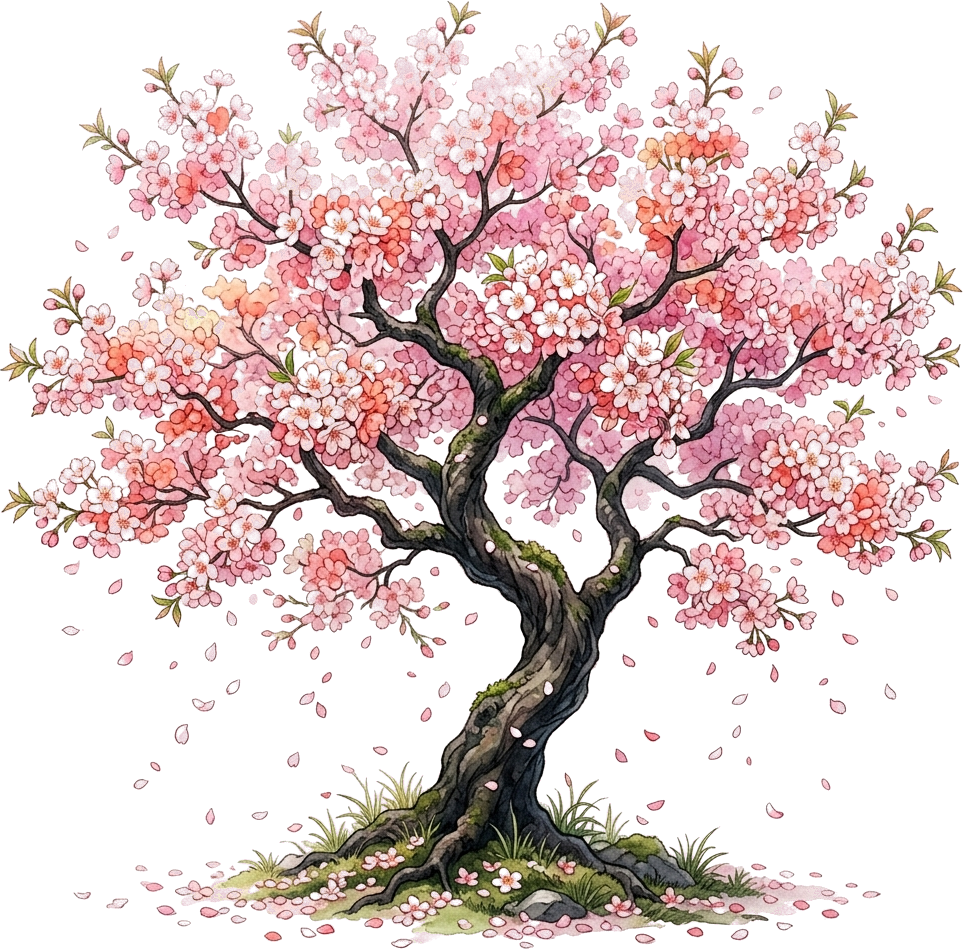
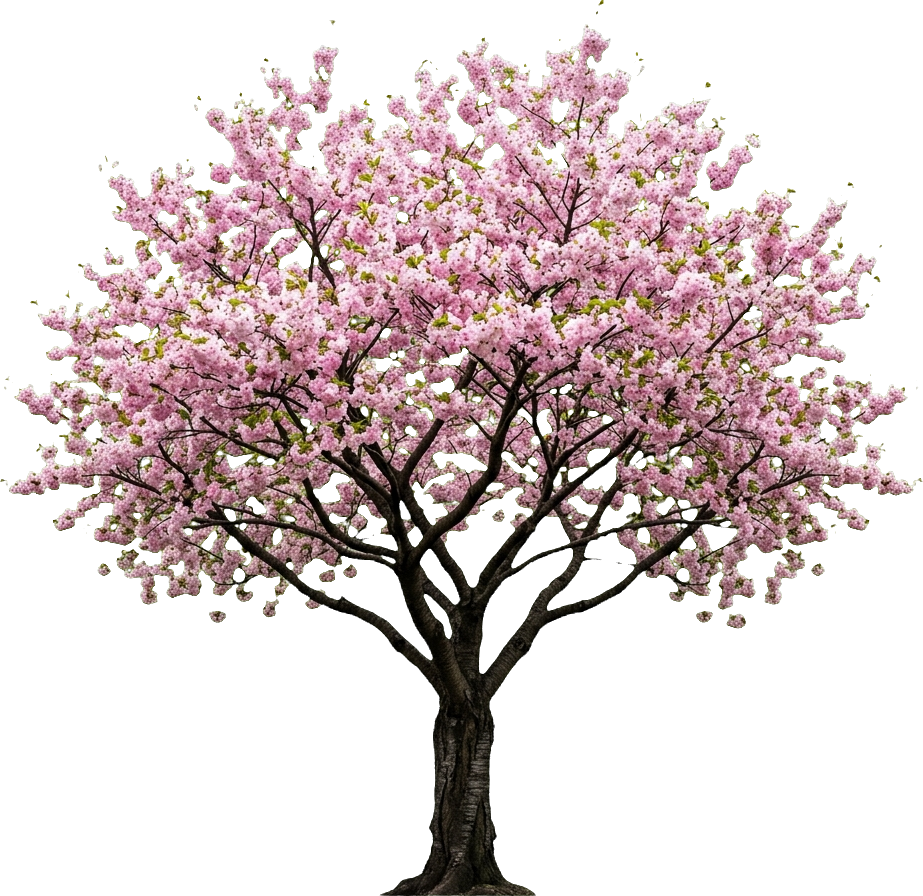
Generate new cherry blossom tree on green screen and key cleanly without AI artifacts, frame Grand Torii Arch in front of camera at Z=16, make 3 intro sentences 2-line large typography all visible from start

diff --git a/index.html b/index.html
@@ -436,7 +436,7 @@
 
         const camera = new THREE.PerspectiveCamera(54, window.innerWidth / window.innerHeight, 0.1, 1000);
         window.camera = camera;
-        camera.position.set(0, 1.6, 12);
+        camera.position.set(0, 1.6, 22.0);
 
         const renderer = new THREE.WebGLRenderer({ antialias: true, alpha: false });
         renderer.setSize(window.innerWidth, window.innerHeight);
@@ -1050,37 +1050,37 @@
         // =========================================================================
         const coupleMeshes = [];
 
-        // --- ENTRANCE ARCHWAY (Z = 28.0, Camera flies through it first thing) ---
-        const entranceTorii = createBillboard('assets/torii_arch_clean.png', 26.0, 26.0);
-        entranceTorii.position.set(0.0, 11.5, 28.0);
+        // --- ENTRANCE ARCHWAY (Z = 16.0, Right in front of camera at Z=22.0) ---
+        const entranceTorii = createBillboard('assets/torii_arch_clean.png', 22.0, 22.0);
+        entranceTorii.position.set(0.0, 9.5, 16.0);
         if (entranceTorii.material) entranceTorii.material.depthWrite = false;
         multiplaneGroup.add(entranceTorii);
 
-        // --- 3 INTRO FULL SENTENCE PLANES (Two-Line, Big, Static Positions) ---
+        // --- 3 INTRO FULL SENTENCE PLANES (Large Two-Line Typography, All Visible From Start) ---
         function createFullSentenceTexture(line1, line2) {
             const canvas = document.createElement('canvas');
             canvas.width = 2048;
-            canvas.height = line2 ? 640 : 400;
+            canvas.height = line2 ? 760 : 480;
             const ctx = canvas.getContext('2d');
 
             ctx.clearRect(0, 0, canvas.width, canvas.height);
 
-            function drawLine(text, y) {
-                ctx.font = '900 110px "Montserrat", "Zen Maru Gothic", sans-serif';
-                ctx.letterSpacing = '6px';
+            function drawLine(text, y, fontSize) {
+                ctx.font = `900 ${fontSize || 125}px "Montserrat", "Zen Maru Gothic", sans-serif`;
+                ctx.letterSpacing = '7px';
                 ctx.textAlign = 'center';
                 ctx.textBaseline = 'middle';
 
-                ctx.shadowColor = 'rgba(0, 0, 0, 0.55)';
-                ctx.shadowBlur = 28;
+                ctx.shadowColor = 'rgba(0, 0, 0, 0.65)';
+                ctx.shadowBlur = 32;
                 ctx.shadowOffsetX = 0;
                 ctx.shadowOffsetY = 10;
-                ctx.lineWidth = 22;
+                ctx.lineWidth = 26;
                 ctx.strokeStyle = '#ffffff';
                 ctx.strokeText(text, 1024, y);
 
                 ctx.shadowBlur = 0;
-                const grad = ctx.createLinearGradient(0, y - 70, 0, y + 70);
+                const grad = ctx.createLinearGradient(0, y - 80, 0, y + 80);
                 grad.addColorStop(0, '#ffffff');
                 grad.addColorStop(0.35, '#ff66b2');
                 grad.addColorStop(1, '#ff0066');
@@ -1089,10 +1089,10 @@
             }
 
             if (line2) {
-                drawLine(line1, 220);
-                drawLine(line2, 420);
+                drawLine(line1, 240, 120);
+                drawLine(line2, 510, 130);
             } else {
-                drawLine(line1, 200);
+                drawLine(line1, 240, 155);
             }
 
             const texture = new THREE.CanvasTexture(canvas);
@@ -1101,9 +1101,9 @@
         }
 
         const INTRO_SENTENCES_DEF = [
-            { line1: "Thank You For", line2: "Choosing Me",     z: 18.0, height: 4.2 },
-            { line1: "I Love You",    line2: null,               z:  4.0, height: 4.8 },
-            { line1: "You Are My",   line2: "Whole World Now",  z: -12.0, height: 4.2 }
+            { line1: "THANK YOU FOR", line2: "CHOOSING ME",     z:   9.0, height: 4.8 },
+            { line1: "I LOVE YOU",    line2: null,              z:  -2.0, height: 5.2 },
+            { line1: "YOU ARE MY",   line2: "WHOLE WORLD NOW", z: -14.0, height: 4.8 }
         ];
 
         const introSentences = INTRO_SENTENCES_DEF.map(item => {
@@ -1118,7 +1118,7 @@
             });
             const mesh = new THREE.Mesh(new THREE.PlaneGeometry(width, item.height), mat);
             // All sentences are visible and placed at fixed 3D world positions from the start
-            mesh.position.set(0.0, 2.6, item.z);
+            mesh.position.set(0.0, 2.7, item.z);
             mesh.visible = true;
             scene.add(mesh);
             return { mesh, mat, z: item.z };
@@ -1302,7 +1302,7 @@
 
         // Cherry trees placed 4.7 units BEHIND couple at Z = -134.5 (No overlap or Z-fighting)
         [-8.5, 8.5].forEach(xPos => {
-            const cherryTree = createBillboard('assets/tree_magenta.png?v=106', 13.5, 14.0);
+            const cherryTree = createBillboard('assets/tree_magenta.png?v=110', 13.5, 14.0);
             cherryTree.position.set(xPos, 5.66, -134.5);
             multiplaneGroup.add(cherryTree);
         });
@@ -1420,12 +1420,12 @@
         coupleMeshes.push(c6);
 
         // Whitish-pink trees standing UPRIGHT (rotation.z = 0) grounded at LYRICS text position (Z = -178.5, NO floating mid-air trees!)
-        const archTreeLeft = createBillboard('assets/tree_bonsai.png?v=106', 13.5, 14.0);
+        const archTreeLeft = createBillboard('assets/tree_bonsai.png?v=110', 13.5, 14.0);
         archTreeLeft.position.set(-8.5, -1.34 + 7.0, -178.5);
         archTreeLeft.rotation.z = 0; // Standing upright, no leaning!
         if (archTreeLeft.material) archTreeLeft.material.depthWrite = false;
 
-        const archTreeRight = createBillboard('assets/tree_bonsai.png?v=106', 13.5, 14.0);
+        const archTreeRight = createBillboard('assets/tree_bonsai.png?v=110', 13.5, 14.0);
         archTreeRight.position.set(8.5, -1.34 + 7.0, -178.5);
         archTreeRight.rotation.z = 0; // Standing upright, no leaning!
         if (archTreeRight.material) archTreeRight.material.depthWrite = false;
@@ -2223,27 +2223,40 @@
                 sun1.visible = sun1Opacity > 0.01;
             }
 
-            // 3 Intro Sentence Planes: always visible from afar, fade as camera passes through
-            // Only hide them once the song lyrics begin (t >= 14.5)
+            // Entrance Torii Arch fade as camera passes through at Z = 16.0
+            if (entranceTorii && entranceTorii.material) {
+                const archDist = camera.position.z - 16.0;
+                if (archDist < -3.0) {
+                    entranceTorii.visible = false;
+                } else if (archDist <= 1.8) {
+                    entranceTorii.visible = true;
+                    entranceTorii.material.opacity = Math.max(0.0, (archDist + 3.0) / 4.8);
+                } else {
+                    entranceTorii.visible = true;
+                    entranceTorii.material.opacity = 1.0;
+                }
+            }
+
+            // 3 Intro Sentence Planes: ALWAYS 100% visible from afar right from the start!
+            // Only fade as camera passes straight through each sentence plane
             introSentences.forEach(item => {
-                if (curAudioTime >= 14.5) {
+                if (curAudioTime >= 15.0) {
                     item.mesh.visible = false;
                     return;
                 }
-                const dist = camera.position.z - item.z; // positive = camera is ahead of (behind) plane
-                if (dist < -4.0) {
+                const dist = camera.position.z - item.z; // camera.z - sentence.z
+                if (dist < -2.5) {
                     // Camera already passed through — hide
                     item.mesh.visible = false;
-                } else {
+                } else if (dist <= 1.8) {
+                    // Camera passing straight through — smooth dissolve
                     item.mesh.visible = true;
-                    if (dist >= 1.5) {
-                        // Camera still approaching — fully visible
-                        item.mat.opacity = 1.0;
-                    } else {
-                        // Camera passing through — smooth fade out
-                        const fade = Math.max(0.0, (dist + 4.0) / 5.5);
-                        item.mat.opacity = fade * fade;
-                    }
+                    const fade = Math.max(0.0, (dist - (-2.5)) / 4.3);
+                    item.mat.opacity = fade * fade;
+                } else {
+                    // In front of camera — ALWAYS 100% VISIBLE FROM THE START!
+                    item.mesh.visible = true;
+                    item.mat.opacity = 1.0;
                 }
             });
 
@@ -2318,15 +2331,20 @@
                 }
             }
 
-            const speedZ = 3.4;
-            const continuousTravelZ = 12.0 - ((curAudioTime - 1.0) * speedZ);
+            let continuousTravelZ;
+            if (curAudioTime <= 15.4) {
+                // Intro fly-through: camera glides from Z = 22.0 (t=0) down to Z = -37.0 (t=15.4)
+                continuousTravelZ = 22.0 - (curAudioTime * (59.0 / 15.4));
+            } else {
+                continuousTravelZ = -37.0 - ((curAudioTime - 15.4) * 3.4);
+            }
 
-            let targetCamPos = new THREE.Vector3(0, 1.4, continuousTravelZ);
+            let targetCamPos = new THREE.Vector3(0, 1.6, continuousTravelZ);
             let targetLookAt = new THREE.Vector3(0, 1.6, continuousTravelZ - 14.0);
             let targetCamRotZ = 0;
 
-            if (curAudioTime < 14.5) {
-                // Straight line fly-through during intro sequence
+            if (curAudioTime < 15.4) {
+                // Straight line fly-through down the center of the road during intro sequence
                 targetCamPos.set(0, 1.6, continuousTravelZ);
                 targetLookAt.set(0, 1.6, continuousTravelZ - 14.0);
                 targetCamRotZ = 0;
